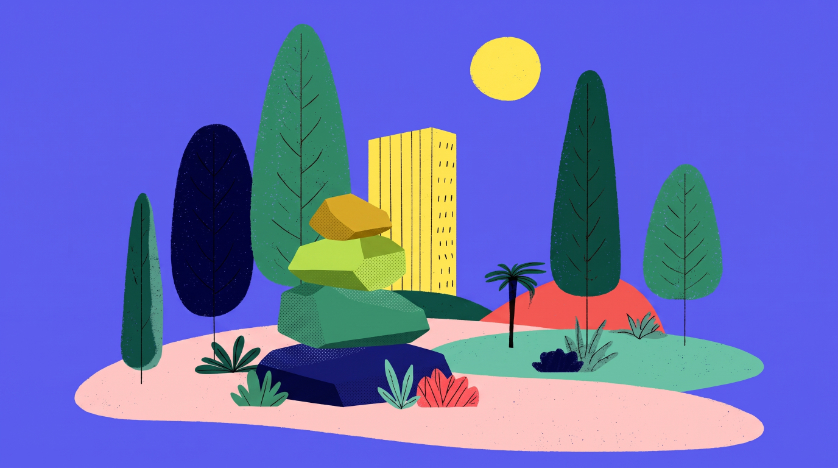
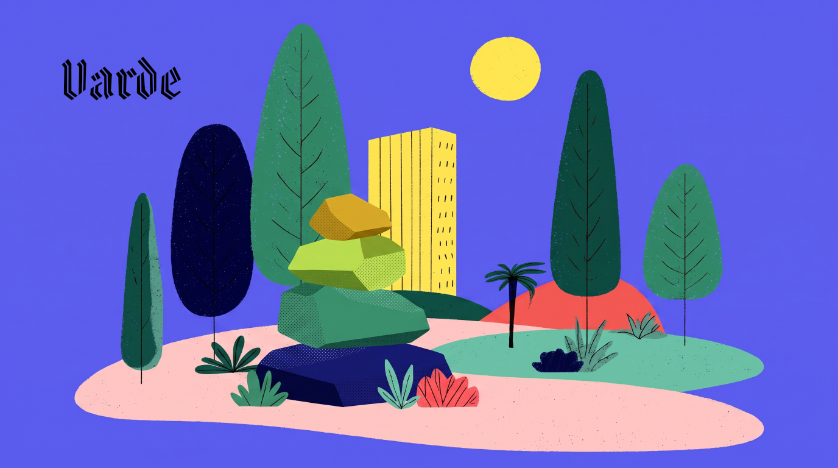
Use the header illustration with the wordmark.

Changed region(s): [[0.0621, 0.1197, 0.2172, 0.2094]]

diff --git a/README.md b/README.md
@@ -2,7 +2,7 @@
 
 **A Claude Code plugin that sets up a blank project folder and keeps a short status file current between sessions.**
 
-![A stack of colored stones in a park, with a tower behind it](github-header.jpg)
+![Varde: a stack of colored stones in a park, with a tower behind it](github-header.jpg)
 
 A varde is a stone cairn, the kind Norse travelers stacked along trails and coastlines to mark the way. Each session adds a stone, and the stack shows the next session where to go.
 
